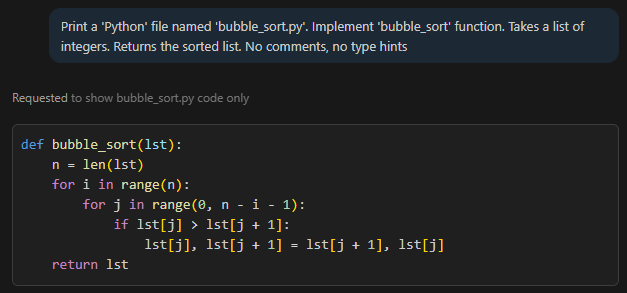
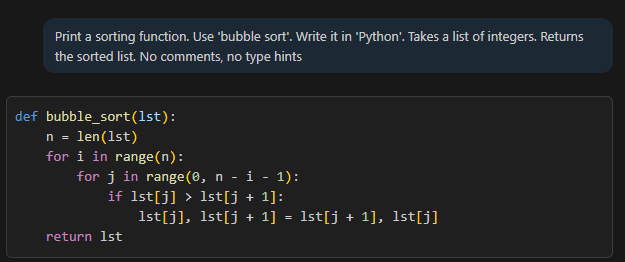
fix: Update Module 7 documentation with new images and improved prompt examples for clarity

diff --git a/lnd/output/module-07-effective-prompting.md b/lnd/output/module-07-effective-prompting.md
@@ -50,7 +50,7 @@ Example progression:
 - 3 statements: `Print a sorting function. Use 'bubble sort'. Write it in 'Python'` → language and algorithm locked, structure still varies.
 ![case 2 - attempt 1](image-2.png)
 ![case 2 - attempt 2](image-3.png)
-- 5 statements: `Print a 'Python' file named 'bubble_sort.py'. Implement 'bubble_sort' function. Takes a list of integers. Returns the sorted list. No comments, no type hints` → minimal variation, consistent output.
+- 5 statements: `Print a sorting function. Use 'bubble sort'. Write it in 'Python'. Takes a list of integers. Returns the sorted list. No comments, no type hints` → minimal variation, consistent output.
 ![case 3 - attempt 1](image-4.png)
 ![case 3 - attempt 2](image-5.png)
 
@@ -63,16 +63,13 @@ Two things to keep in mind about prompt language:
 
 ### Steps
 1. Open your AI chat in `Agent Mode`.
-2. Type a very abstract prompt: `Create a file with a sorting function.`
+2. Type a very abstract prompt: `Print a sorting function`
 3. Observe the result: note the language, algorithm, extras (comments, tests, docstrings).
-4. Now edit your original prompt (**do not write a new message below — go back and edit**) to add two constraints: `Create a file with a bubble sort function in Python`
-
-![Edit](img/module-07/01-edit.png)
-
-![Send](img/module-07/02-send.png)
-
-5. Press Enter and compare the new result to the previous one.
-6. Edit again, adding more constraints: `Create a 'Python' file named 'bubble_sort.py'. Implement a bubble_sort function that takes a list of integers and returns the sorted list. No comments, no docstrings.`
+4. Now edit your original prompt (Important! **do not write a new message below — go back and edit**) to add two constraints: `... Use 'bubble sort'. Write it in 'Python'`
+![Update prompt](image-6.png)
+5. Press `Enter` and compare the new result to the previous one.
+6. Edit again, adding more constraints: `... Takes a list of integers. Returns the sorted list. No comments, no type hints`
+![Update prompt again](image-7.png)
 7. Compare all three results. Notice how each added statement reduced variability.
 
 ### ✅ Result
